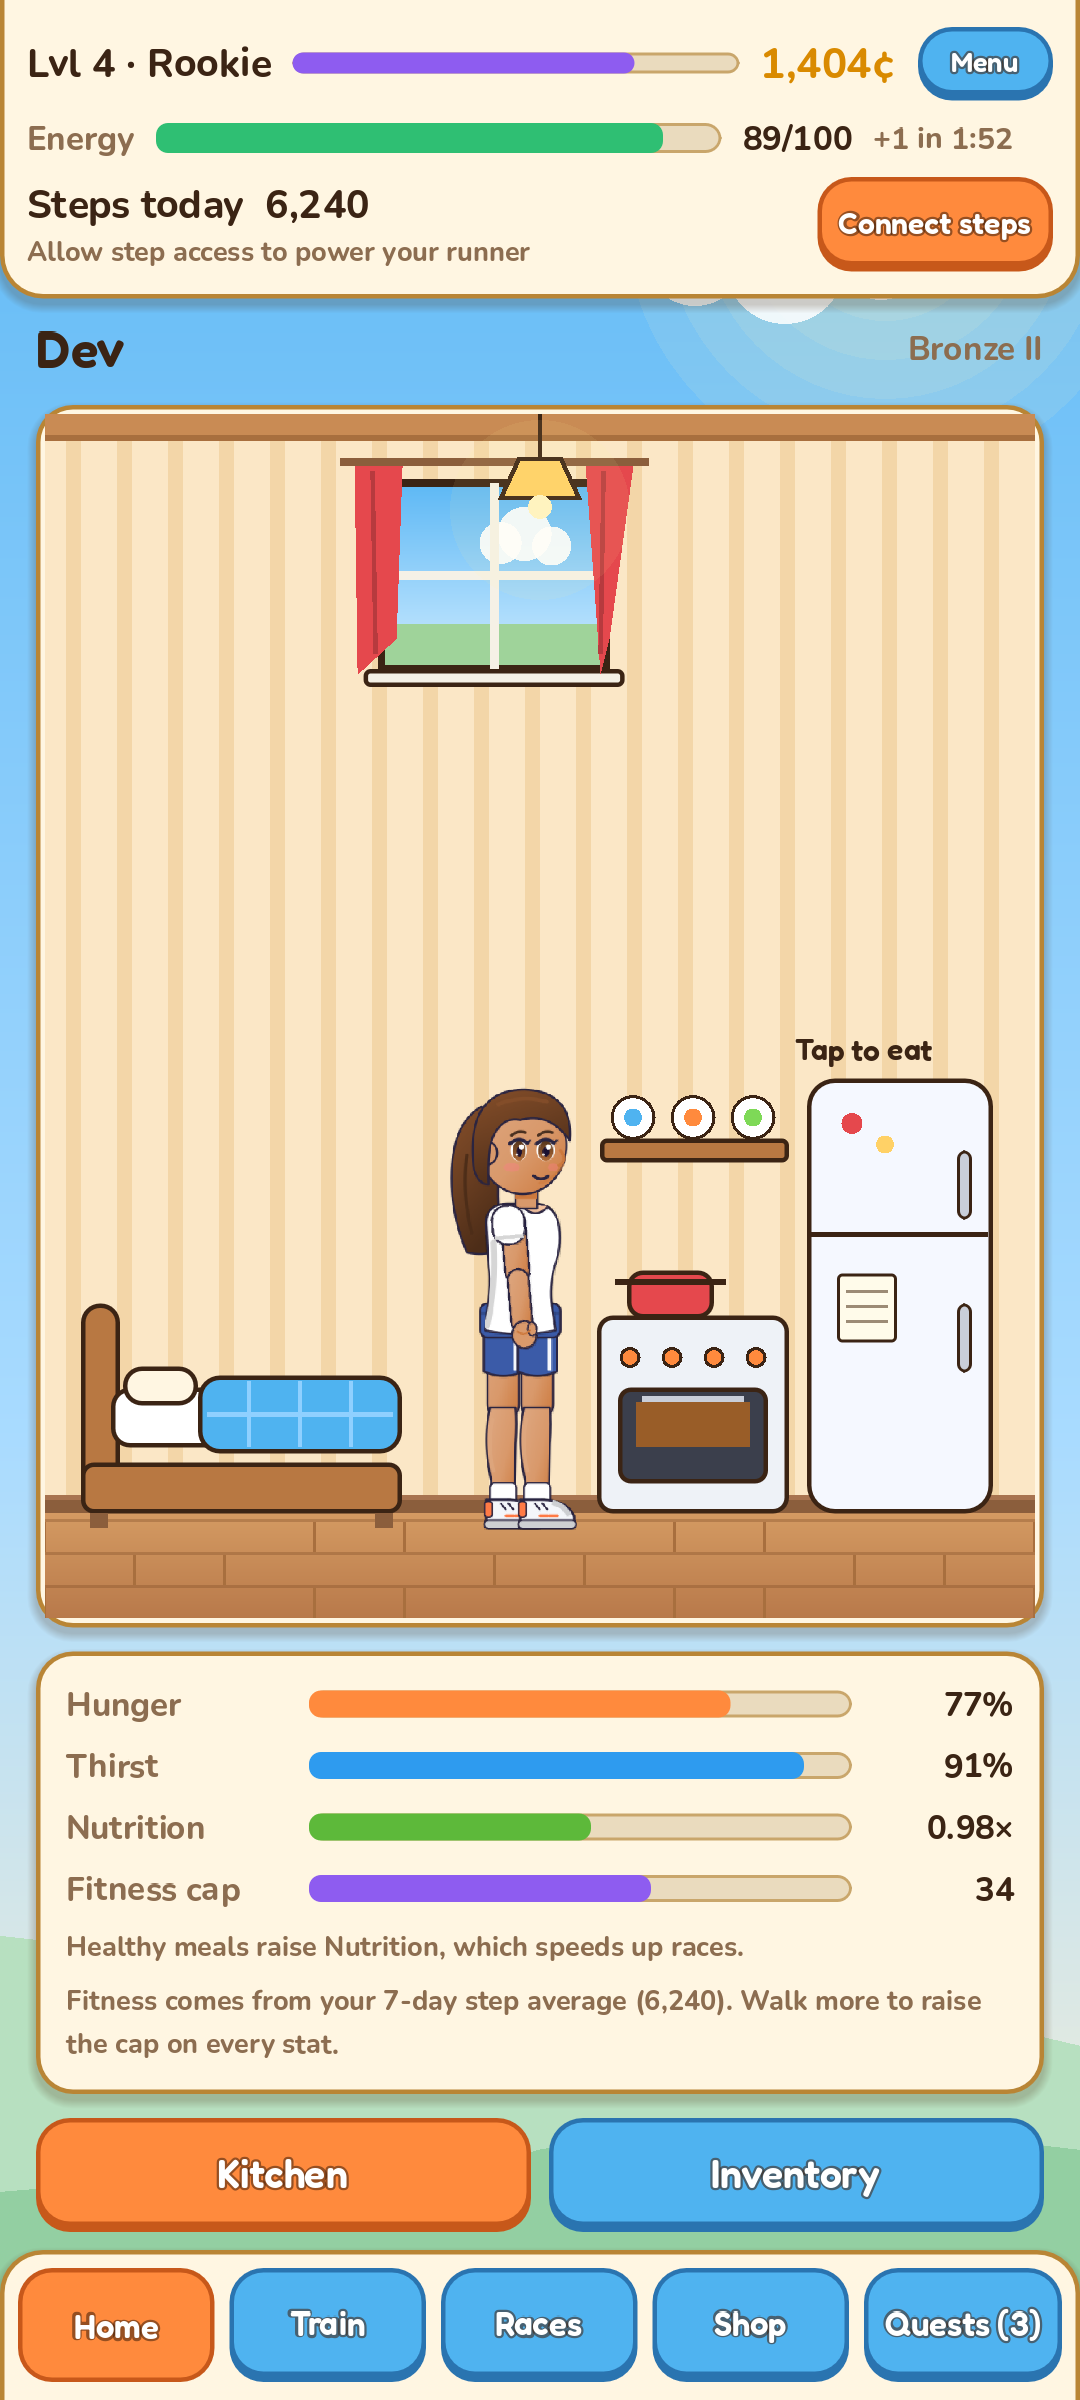
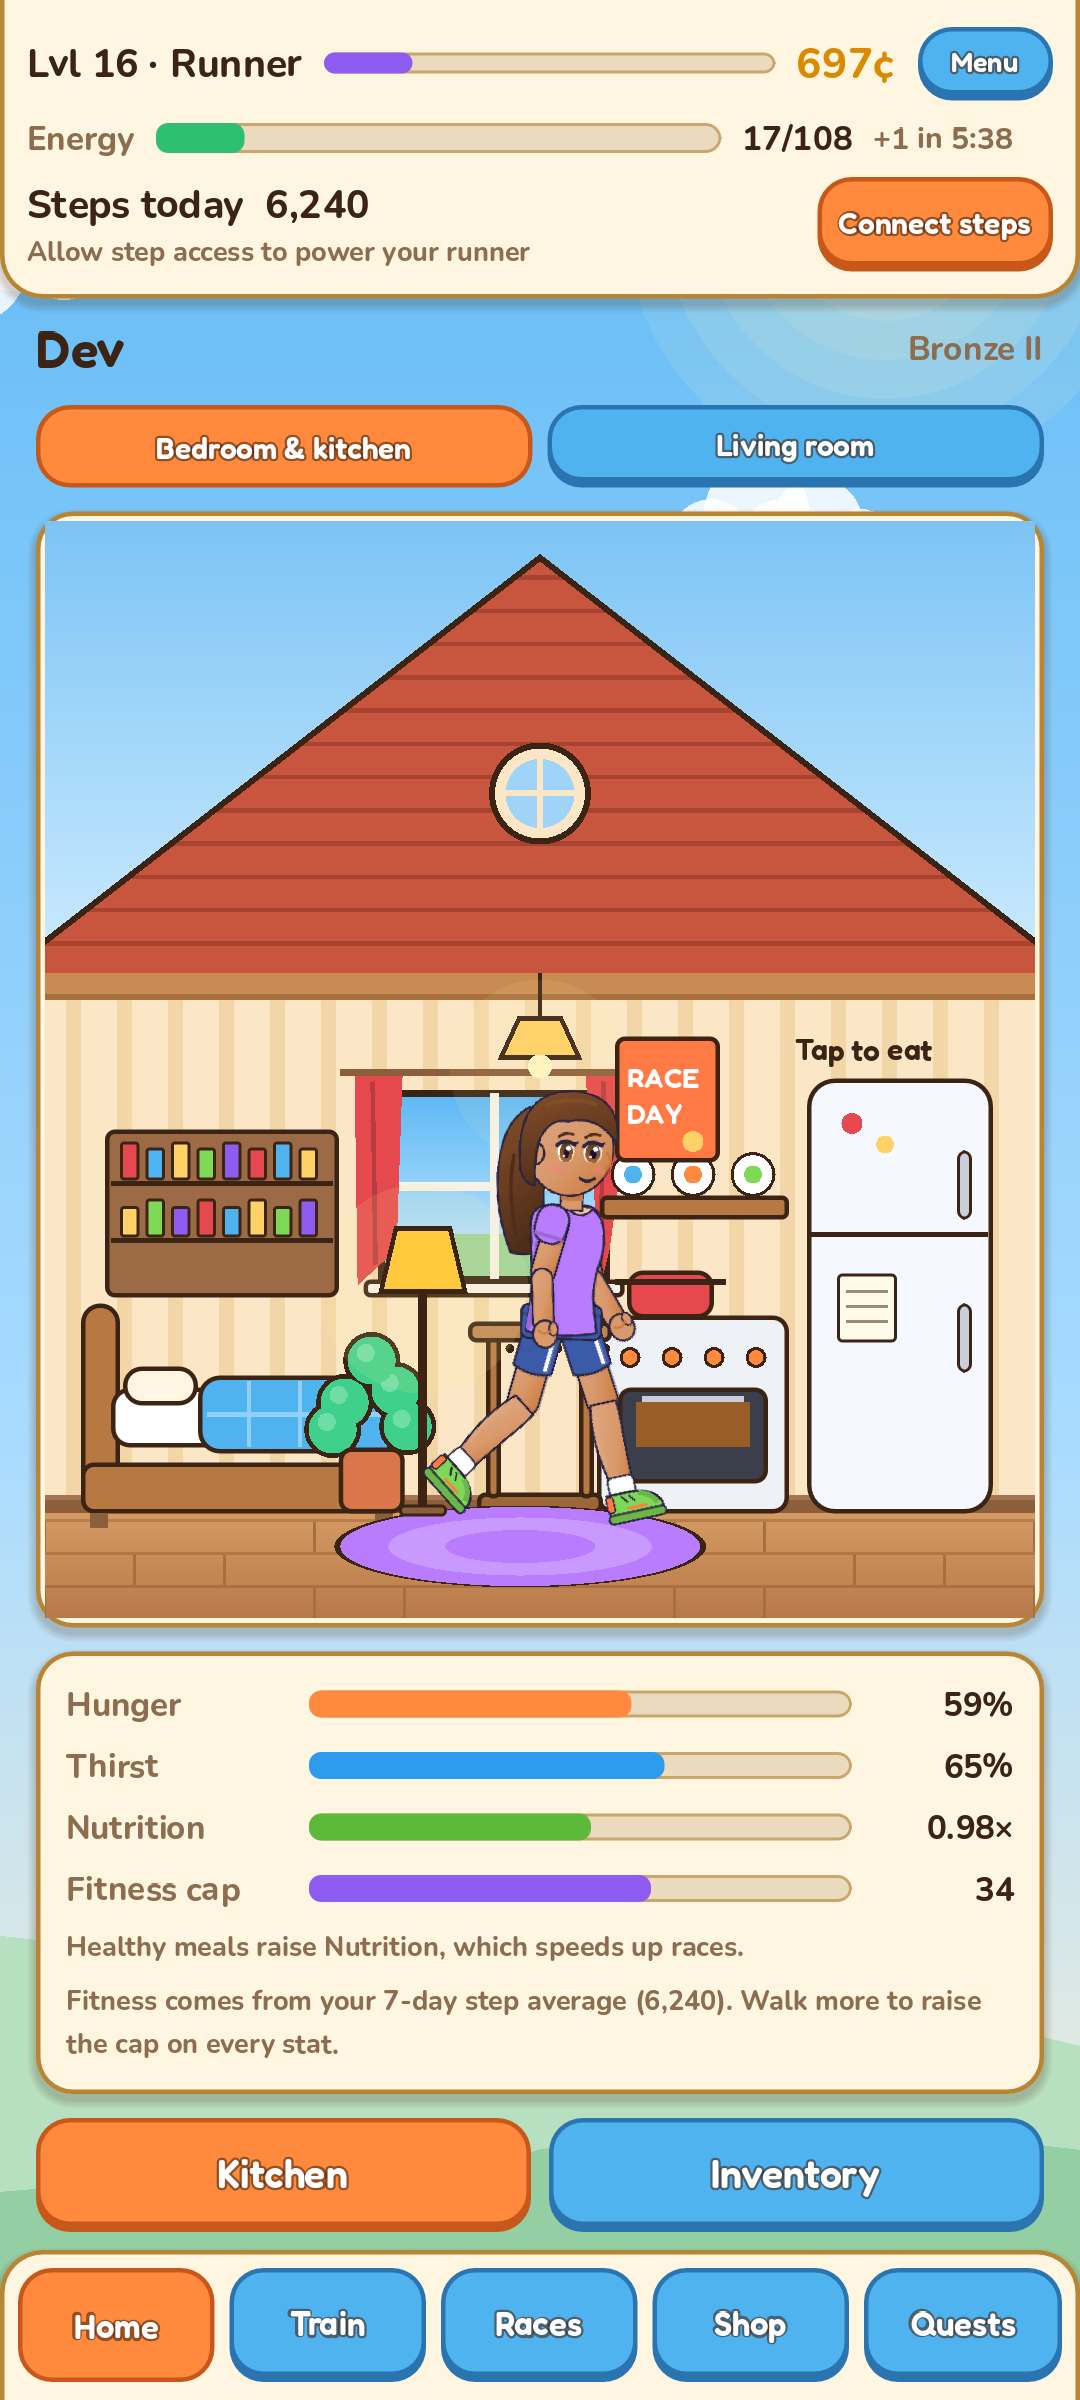
updated release page for Runling 0.8.0 LJT

diff --git a/README.md b/README.md
@@ -5,12 +5,13 @@ looks like you, feed them, train them and race them against other runners.
 The more you walk in real life, the stronger your runner gets.
 
 **[Download the latest version (Google Drive)](https://drive.google.com/drive/folders/1OKRJil2Vq85TlMJgisvNVxiQkPWyds1h?usp=sharing)**
-· Latest: **0.7.0** (September 28, 2026) · Android 8.0 or newer, 64-bit phone
+· Latest: **0.8.0** (September 28, 2026) · Android 8.0 or newer, 64-bit phone
 
 <p>
   <img src="screenshots/home.png" alt="Your runner at home" width="200">
+  <img src="screenshots/races.png" alt="The Daily Event and race list" width="200">
   <img src="screenshots/race.png" alt="A race in progress" width="200">
-  <img src="screenshots/races.png" alt="Race list" width="200">
+  <img src="screenshots/bibs.png" alt="Race bibs with your stats per distance" width="200">
   <img src="screenshots/shop.png" alt="Gear shop" width="200">
 </p>
 
@@ -26,11 +27,15 @@ The more you walk in real life, the stronger your runner gets.
 | **Care** | Keep your runner fed and hydrated. Tap water and a plain meal are always free, and healthy meals make races faster |
 | **Training** | Raise Speed, Stamina, Strength, Luck and Charisma |
 | **Races** | From the free Community Fun Run up to the Marathon, against AI runners of your level. Road, track, trail, rain and mud each race differently |
+| **Daily Event** | Once a day, race everyone who registers (AI runners fill the empty places). Bigger prizes, gear for the podium, and gold, silver and bronze medals |
+| **Medals and race bibs** | Your Event medals hang on the medal stand at home (tap it to see them all). Each distance has a race bib with your races, podiums, personal best and pace |
 | **Jobs and coins** | Part-time jobs (barista, delivery) and race prizes pay for food, gear and furniture |
 | **Gear and looks** | Shoes, tops, watches, headphones and more, with rarity glows, outfit sets and dyes |
-| **Home** | Furnish your room, and unlock a living room at level 15 |
+| **Home** | Your runner potters about the house on their own. Furnish your room (and a living room from level 15): every piece of furniture gives a small perk, like more max energy or extra race XP |
 | **Quests** | Daily and weekly quests, a monthly walking milestone and a 28-day login calendar that never resets |
 | **Levels and titles** | Rookie to Legend, with exclusive prestige outfits at levels 40 and 50 |
+
+Music and sound effects (switch them off in Menu), and a 30/60 fps setting to save battery.
 
 No ads, nothing to buy, and missed days are never punished.
 

diff --git a/CHANGELOG.md b/CHANGELOG.md
@@ -1,5 +1,43 @@
 # Changelog
 
+## 0.8.0 (September 28, 2026)
+
+Download: `runling_0.8.0.apk` from the [Google Drive folder](https://drive.google.com/drive/folders/1OKRJil2Vq85TlMJgisvNVxiQkPWyds1h?usp=sharing)
[1 lines of base64/hex data omitted]
+
+**New: the Daily Event**
+- Once a day, register on the Races tab and race **everyone who signs up**, with AI runners
+  filling the empty places (12 per race).
+- Registration closes at **7:00 PM Philippine time**; the race runs right after, and your results
+  wait on the Races tab with **Watch the race**.
+- Bigger prizes (3x a normal race), gear for the podium, and **gold, silver and bronze medals**
+  for the top 3.
+- Your runner races as they are when you register. Trained or bought gear since? Tap
+  **Update my entry** (free) before 7:00 PM.
+
+**New: medals and race bibs**
+- Event medals hang on the **medal stand** in your bedroom. Tap it to see every medal: the
+  event, your place, time and date.
+- **Race bibs:** one per distance, with your races, 1st/2nd/3rd finishes, personal best and
+  average pace. Also on the Races tab (**Medals & race bibs**).
+- Race results now tell you when you set a **new personal best**.
+
+**Your home**
+- Your runner now lives in the house: walks around, opens the fridge, cooks, sits on the bed,
+  looks out of the window, stretches.
+- **Furniture perks:** every piece does something small, like +3 max energy (sofa), cheaper
+  training (rug) or extra race XP (poster, TV). The shop shows each perk.
+- The room looks right on tall phones (the window was up near the roof), and the Medal Rack
+  moved to the living room.
+
+**Also new**
+- **Music and sound effects**, with on/off switches in Menu.
+- **Frame rate** setting in Menu: 60 fps, or 30 fps to save battery.
+- The log-in screen is centred.
+
+**Updating from 0.7.0:** open the new APK and tap **Update**. You stay logged in and keep
+everything.
+
 ## 0.7.0 (September 28, 2026)
 
 Download: `runling_0.7.0.apk` from the [Google Drive folder](https://drive.google.com/drive/folders/1OKRJil2Vq85TlMJgisvNVxiQkPWyds1h?usp=sharing)
